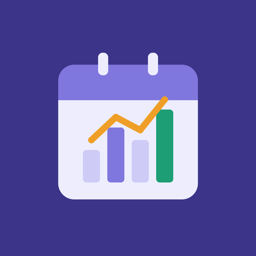
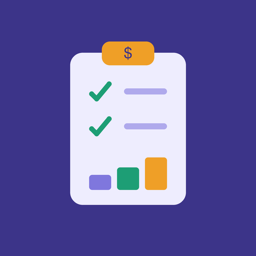
Rebrand site to Monyfest; reinvent copy without tracker/logger

Changed region(s): [[0.2188, 0.1562, 0.7812, 0.8125]]

diff --git a/index.html b/index.html
@@ -2,16 +2,16 @@
 <html lang="en">
 <head>
 <meta charset="UTF-8">
-<title>Spendly Log — private, on-device expense tracker</title>
+<title>Monyfest — your money, made clear</title>
 <meta name="viewport" content="width=device-width, initial-scale=1">
-<meta name="description" content="Spendly Log tracks your expenses entirely on your device — category breakdowns, monthly trends, and smart CSV import. No account, no cloud, no ads.">
+<meta name="description" content="Monyfest turns your spending into a clear picture — categories, trends, and analytics — entirely on your device. No account, no cloud, no ads.">
 <link rel="icon" href="assets/icon.png">
 <link rel="stylesheet" href="styles.css">
 </head>
 <body>
 
 <nav>
-  <a class="brand" href="index.html"><img src="assets/icon.png" alt=""> Spendly Log</a>
+  <a class="brand" href="index.html"><img src="assets/icon.png" alt=""> Monyfest</a>
   <div class="links">
     <a href="support.html">Support</a>
     <a href="privacy.html">Privacy</a>
@@ -19,86 +19,86 @@
 </nav>
 
 <div class="hero">
-  <img class="icon" src="assets/icon.png" alt="Spendly Log app icon">
-  <h1>See where your money goes</h1>
-  <p class="tagline">A simple, private expense tracker that works entirely on your device — no account, no cloud, no ads.</p>
+  <img class="icon" src="assets/icon.png" alt="Monyfest app icon">
+  <h1>Your money, made clear</h1>
+  <p class="tagline">Monyfest turns the numbers you'd rather not think about into a picture you actually understand — and it never leaves your phone.</p>
   <div class="badges">
     <span class="badge">100% on-device</span>
-    <span class="badge">Zero network access</span>
+    <span class="badge">No account</span>
     <span class="badge">iPhone &amp; iPad</span>
   </div>
   <div class="shots">
-    <img src="assets/screenshot-expenses.png" alt="Expenses list screen">
-    <img src="assets/screenshot-import.png" alt="Screenshot and video import screen">
-    <img src="assets/screenshot-categories.png" alt="Category breakdown donut chart screen">
+    <img src="assets/screenshot-expenses.png" alt="Monthly expenses grouped by category">
+    <img src="assets/screenshot-import.png" alt="Bringing in transactions from a screenshot or recording">
+    <img src="assets/screenshot-categories.png" alt="Category breakdown donut chart">
   </div>
 </div>
 
 <div class="section">
-  <h2 class="section-title">Everything you need, nothing you don't</h2>
-  <p class="section-sub">Spendly Log focuses on the essentials — logging expenses, understanding where they go, and tracking trends over time.</p>
+  <h2 class="section-title">The whole picture, not just the numbers</h2>
+  <p class="section-sub">Money is easier to handle when you can see it. Monyfest turns a pile of transactions into something you can read at a glance.</p>
   <div class="features">
     <div class="feature">
       <div class="icon c-violet">＋</div>
-      <h3>Quick add &amp; auto-categorize</h3>
-      <p>Add an expense in seconds — merchant-based heuristics suggest the right category automatically.</p>
+      <h3>Add in seconds</h3>
+      <p>Type a merchant and the category picks itself. One tap and the expense is in — no forms to wrestle with.</p>
     </div>
     <div class="feature">
       <div class="icon c-teal">◐</div>
-      <h3>Category breakdown</h3>
-      <p>A donut chart shows exactly where your money went each month, across 12 built-in categories.</p>
+      <h3>Where it actually goes</h3>
+      <p>A category donut shows how each month really breaks down, with the percentages spelled out beside it.</p>
     </div>
     <div class="feature">
       <div class="icon c-amber">▲</div>
-      <h3>Monthly trends</h3>
-      <p>A 12-month bar chart with month-over-month deltas so you can spot patterns before they add up.</p>
+      <h3>Month on month</h3>
+      <p>A twelve-month view shows whether you're drifting up or reining it in, with the change stated plainly.</p>
     </div>
     <div class="feature">
       <div class="icon c-violet">⇩</div>
-      <h3>Smart CSV import</h3>
-      <p>Auto-detects bank and card export formats — delimiters, date formats, US/EU numbers, debit/credit columns.</p>
+      <h3>Bring in a bank file</h3>
+      <p>Point Monyfest at a CSV from your bank and it works out the columns, dates, and number style on its own.</p>
     </div>
     <div class="feature">
       <div class="icon c-teal">▤</div>
-      <h3>Screenshot import</h3>
-      <p>No CSV export? Screenshot your bank app's transaction list and the app reads it with on-device text recognition — dates, merchants, and amounts, reviewed by you before saving.</p>
+      <h3>Snap a screenshot</h3>
+      <p>No export? Screenshot your bank app's list and Monyfest reads the rows right on your phone. Nothing is uploaded.</p>
     </div>
     <div class="feature">
       <div class="icon c-amber">▶</div>
-      <h3>Video import</h3>
-      <p>Long list? Record your screen while scrolling through it and import the whole recording — frames are read on your device and duplicates removed automatically.</p>
+      <h3>Or record the scroll</h3>
+      <p>Long history? Film your screen while scrolling and Monyfest reads the whole clip, skipping the repeats.</p>
     </div>
     <div class="feature">
       <div class="icon c-violet">✦</div>
-      <h3>Clean merchant names</h3>
-      <p>Cryptic statement descriptors become readable store names — "STORA COOP SUNDBY PARK" is just "Stora Coop".</p>
+      <h3>Names you recognize</h3>
+      <p>Cryptic bank descriptors become the shops you actually visited — "STORA COOP SUNDBY" reads as "Stora Coop".</p>
     </div>
     <div class="feature">
       <div class="icon c-teal">⧉</div>
-      <h3>Duplicate-safe</h3>
-      <p>Re-importing the same file, screenshot, or video never creates duplicates — each row is hashed and checked automatically.</p>
+      <h3>Import twice, safely</h3>
+      <p>Bring in the same file, shot, or clip again and nothing doubles up — every row is fingerprinted first.</p>
     </div>
     <div class="feature">
       <div class="icon c-amber">◫</div>
-      <h3>Analytics</h3>
-      <p>Year-to-date, projections, year-over-year and month-over-month trends, top merchants, and per-category deep dives.</p>
+      <h3>Go deeper</h3>
+      <p>Year-to-date, a projection for the year, year-on-year shifts, your top merchants, and a look inside any category.</p>
     </div>
   </div>
 </div>
 
 <div class="section">
   <h2 class="section-title">Made for iPad too</h2>
-  <p class="section-sub">On iPad, everything lives on one screen — your expenses, category donut, and monthly trend side by side. Tap a month to focus it, tap a category to filter, and dive into full analytics.</p>
+  <p class="section-sub">On iPad it all sits on one screen — your expenses, the category donut, and the monthly picture together. Tap a month to focus it, tap a category to filter, open analytics for the full story.</p>
   <div class="shots">
-    <img src="assets/screenshot-ipad-dashboard.png" alt="iPad dashboard with expense list, category donut, and monthly trend">
-    <img src="assets/screenshot-analytics.png" alt="Analytics page with yearly totals and category mix">
+    <img src="assets/screenshot-ipad-dashboard.png" alt="iPad dashboard with expenses, category donut, and monthly view">
+    <img src="assets/screenshot-analytics.png" alt="Analytics with yearly totals and category mix">
   </div>
 </div>
 
 <div class="section tight">
   <div class="privacy-band">
-    <h2>Private by design</h2>
-    <p>Everything is stored locally on your device using Apple's on-device storage. Spendly Log makes zero network requests — no account, no analytics, no tracking, and nothing is ever uploaded anywhere.</p>
+    <h2>Yours, and only yours</h2>
+    <p>Everything you put into Monyfest stays in Apple's on-device storage. The app has no networking code at all — no account, no cloud, no analytics, no ads. Your spending is nobody's business but yours, and it never leaves your phone.</p>
   </div>
 </div>
 

diff --git a/support.html b/support.html
@@ -2,7 +2,7 @@
 <html lang="en">
 <head>
 <meta charset="UTF-8">
-<title>Support — Spendly Log</title>
+<title>Support — Monyfest</title>
 <meta name="viewport" content="width=device-width, initial-scale=1">
 <link rel="icon" href="assets/icon.png">
 <link rel="stylesheet" href="styles.css">
@@ -10,7 +10,7 @@
 <body>
 
 <nav>
-  <a class="brand" href="index.html"><img src="assets/icon.png" alt=""> Spendly Log</a>
+  <a class="brand" href="index.html"><img src="assets/icon.png" alt=""> Monyfest</a>
   <div class="links">
     <a href="support.html">Support</a>
     <a href="privacy.html">Privacy</a>
@@ -20,53 +20,53 @@
 <div class="page">
   <div class="page-header"><img src="assets/icon.png" alt=""></div>
   <h1>Support</h1>
-  <p class="updated">Spendly Log tracks your expenses entirely on your device — no account, no cloud sync, no network access.</p>
+  <p class="updated">Monyfest makes your spending clear, entirely on your device — no account, no cloud, no network access.</p>
 
-  <div class="callout">Have a question, bug report, or feature request? Email <a href="mailto:[email redacted]">[email redacted]</a> — I read every message myself. If Spendly Log saves you time, you can <a href="https://buymeacoffee.com/maverickmicky">buy me a coffee</a> ☕.</div>
+  <div class="callout">Have a question, a bug, or an idea? Email <a href="mailto:[email redacted]">[email redacted]</a> — I read every message myself. If Monyfest earns its place on your phone, you can <a href="https://buymeacoffee.com/maverickmicky">buy me a coffee</a> ☕.</div>
 
   <h2>Frequently asked questions</h2>
 
-  <p class="faq-q">Where is my data stored?</p>
-  <p class="faq-a">All expenses are stored locally on your device only, using Apple's on-device SwiftData storage. Nothing is uploaded anywhere. If you delete the app, your data is deleted with it — there is currently no backup or export feature beyond CSV import.</p>
+  <p class="faq-q">Where does my data live?</p>
+  <p class="faq-a">Only on your device, in Apple's on-device storage. Nothing is uploaded anywhere. If you delete the app your data goes with it, so keep an export if you want a copy.</p>
 
-  <p class="faq-q">Does the app work without internet?</p>
-  <p class="faq-a">Yes — completely. Spendly Log has no networking code at all, so every feature (including screenshot and video import) works in airplane mode. Try it: turn on airplane mode and use the app; nothing changes.</p>
+  <p class="faq-q">Does it work without internet?</p>
+  <p class="faq-a">Completely. Monyfest has no networking code at all, so every feature — including reading screenshots and recordings — works in airplane mode. Try it: switch airplane mode on and nothing changes.</p>
 
-  <p class="faq-q">How can I verify nothing is uploaded?</p>
-  <p class="faq-a">Three ways. First, the App Store listing shows Apple's privacy label as "Data Not Collected" — that declaration is part of App Review. Second, iOS itself keeps the receipts: enable <em>Settings → Privacy &amp; Security → App Privacy Report</em>, use Spendly Log for a while, and check the Network Activity section — Spendly Log will show no network activity, ever. Third, everything works in airplane mode, which would be impossible if your data needed a server.</p>
+  <p class="faq-q">How can I be sure nothing is sent anywhere?</p>
+  <p class="faq-a">Three ways. The App Store privacy label reads "Data Not Collected", which is checked during review. iOS keeps its own receipts — turn on <em>Settings → Privacy &amp; Security → App Privacy Report</em>, use Monyfest, and its network section stays blank. And it all works in airplane mode, which couldn't happen if your data needed a server.</p>
 
-  <p class="faq-q">How does screenshot import work?</p>
-  <p class="faq-a">Take screenshots of the transaction list in your bank app, then in Spendly Log tap Import → Scan Screenshot and choose them (or copy a screenshot and tap Paste). Text recognition runs on your phone using Apple's Vision framework — the images are never uploaded. Every detected transaction appears in a review screen where you can fix categories or exclude rows before anything is saved.</p>
+  <p class="faq-q">How does reading a screenshot work?</p>
+  <p class="faq-a">Screenshot the transaction list in your bank app, then in Monyfest tap Import → Scan Screenshot and pick it (or copy the screenshot and tap Paste). The text is read on your phone with Apple's Vision framework — the image is never uploaded. Every row lands in a review screen where you can fix categories or leave some out before saving.</p>
 
-  <p class="faq-q">How does video import work?</p>
-  <p class="faq-a">If the list is long, record your screen (Control Center → screen recording) while scrolling through it, then pick the video in the same import screen. Scroll slowly and steadily — fast flicks blur the text. Overlapping frames are de-duplicated automatically.</p>
+  <p class="faq-q">How does reading a recording work?</p>
+  <p class="faq-a">For a long history, record your screen (Control Center → screen recording) while scrolling slowly, then pick the video in the same import screen. Scroll steadily — fast flicks blur the text — and Monyfest skips the frames that overlap.</p>
 
-  <p class="faq-q">What does the orange dot on some imported expenses mean?</p>
-  <p class="faq-a">It marks a transaction whose date had to be guessed — usually because the screenshot cropped the list between a date heading and its rows. Open the expense, check or fix the date, and save; the dot disappears.</p>
+  <p class="faq-q">What's the orange dot on some expenses?</p>
+  <p class="faq-a">It flags an imported expense whose date had to be guessed — usually because the screenshot cut off between a date heading and its rows. Open the expense, confirm or fix the date, and save; the dot goes away.</p>
 
-  <p class="faq-q">How do I delete an expense?</p>
-  <p class="faq-a">Swipe left on it in the list, long-press it for a menu, or open it and tap Delete Expense.</p>
+  <p class="faq-q">How do I remove an expense?</p>
+  <p class="faq-a">Swipe left on it, long-press it for a menu, or open it and tap Delete.</p>
 
-  <p class="faq-q">What CSV formats can I import?</p>
-  <p class="faq-a">The app auto-detects common bank and card export formats: comma, semicolon, or tab-delimited files; quoted fields; header detection; a single signed-amount column or split debit/credit columns; US (1,234.56) and EU (1 234,56) number formats; and several date formats, auto-disambiguated. If your bank's export doesn't import correctly, email a sample (redact the amounts if you like) and it can likely be supported.</p>
+  <p class="faq-q">Which CSV files can it read?</p>
+  <p class="faq-a">Most bank and card exports: comma, semicolon, or tab separated; quoted fields; a single signed-amount column or split debit/credit columns; US (1,234.56) and EU (1 234,56) numbers; and several date formats, sorted out automatically. If yours doesn't come through cleanly, email a sample (blank out the amounts if you like) and it can usually be supported.</p>
 
-  <p class="faq-q">Will importing the same file twice create duplicates?</p>
-  <p class="faq-a">No — every imported row is hashed, so re-importing a file you've already imported automatically skips rows that were previously added.</p>
+  <p class="faq-q">Will importing the same file twice double things up?</p>
+  <p class="faq-a">No. Every row is fingerprinted, so bringing in a file you've already imported quietly skips the rows that are already there.</p>
 
-  <p class="faq-q">Can I edit the category CSV import assigns to a row?</p>
-  <p class="faq-a">Yes. The import preview screen lets you review every row before committing — toggle rows to exclude them, or tap a row's category to change it.</p>
+  <p class="faq-q">Can I change the category it picked?</p>
+  <p class="faq-a">Yes. The import review screen lets you go through every row before it's saved — leave some out, or tap a category to change it.</p>
 
-  <p class="faq-q">Does it support multiple currencies?</p>
-  <p class="faq-a">Amounts display using your device's locale currency. Multi-currency conversion isn't supported in this version.</p>
+  <p class="faq-q">Does it handle more than one currency?</p>
+  <p class="faq-a">Amounts show in your device's currency. Converting between currencies isn't part of this version.</p>
 
   <p class="faq-q">Does it sync between my iPhone and iPad?</p>
-  <p class="faq-a">Not currently — each device keeps its own separate local data, since there's no cloud account to sync through.</p>
+  <p class="faq-a">Not right now — with no cloud account to sync through, each device keeps its own copy.</p>
 
-  <p class="faq-q">Can I export or back up my data?</p>
-  <p class="faq-a">Yes — open the Import &amp; Export menu and choose Export. You can share your expenses as a CSV or Excel spreadsheet, or a PDF statement grouped by month, for any period. Files are generated on your device and go only where you send them (Files, AirDrop, email, …). The CSV re-imports into Spendly Log without creating duplicates, so it doubles as a backup.</p>
+  <p class="faq-q">Can I get my data out?</p>
+  <p class="faq-a">Yes — open Import &amp; Export and choose Export. Send your expenses as a CSV or Excel spreadsheet, or a PDF statement grouped by month, for any period. Files are made on your device and go only where you send them. The CSV comes back into Monyfest without doubling up, so it also works as a backup.</p>
 
   <h2>Privacy</h2>
-  <p>Spendly Log collects nothing — see the full <a href="privacy.html">privacy policy</a> for details.</p>
+  <p>Monyfest collects nothing — the full <a href="privacy.html">privacy policy</a> has the details.</p>
 </div>
 
 <footer>

diff --git a/privacy.html b/privacy.html
@@ -2,7 +2,7 @@
 <html lang="en">
 <head>
 <meta charset="UTF-8">
-<title>Privacy Policy — Spendly Log</title>
+<title>Privacy Policy — Monyfest</title>
 <meta name="viewport" content="width=device-width, initial-scale=1">
 <link rel="icon" href="assets/icon.png">
 <link rel="stylesheet" href="styles.css">
@@ -10,7 +10,7 @@
 <body>
 
 <nav>
-  <a class="brand" href="index.html"><img src="assets/icon.png" alt=""> Spendly Log</a>
+  <a class="brand" href="index.html"><img src="assets/icon.png" alt=""> Monyfest</a>
   <div class="links">
     <a href="support.html">Support</a>
     <a href="privacy.html">Privacy</a>
@@ -22,31 +22,31 @@
   <h1>Privacy Policy</h1>
   <p class="updated">Last updated: July 2026</p>
 
-  <div class="callout">Spendly Log does not collect, transmit, or share any of your data — of any kind, ever.</div>
+  <div class="callout">Monyfest does not collect, transmit, or share any of your data — of any kind, ever.</div>
 
   <h2>What the app does</h2>
-  <p>Spendly Log is an expense-tracking app that stores everything you enter — expenses, categories, notes, and imported CSV data — locally on your device using Apple's on-device SwiftData storage. The app makes no network requests of any kind.</p>
+  <p>Monyfest helps you make sense of your spending. Everything you put in — expenses, categories, notes, and anything brought in from a CSV, screenshot, or recording — is kept on your device in Apple's on-device storage. The app makes no network requests of any kind.</p>
 
   <h2>Data collection</h2>
-  <p>We do not collect any data. There is no analytics, no crash reporting, no advertising SDK, and no account or sign-in of any kind. Nothing you enter into the app ever leaves your device.</p>
+  <p>None. There is no analytics, no crash reporting, no advertising, and no account or sign-in. Nothing you enter ever leaves your phone.</p>
 
-  <h2>CSV, screenshot, and video import</h2>
-  <p>When you import a CSV file, a screenshot, or a screen recording of your bank app, it is read and parsed entirely on your device. Text recognition uses Apple's on-device Vision framework — no image, video, or text ever leaves your phone.</p>
+  <h2>Reading files, screenshots, and recordings</h2>
+  <p>When you bring in a CSV file, a screenshot, or a screen recording of your bank app, it is read entirely on your device. Text recognition uses Apple's on-device Vision framework — no image, video, or text is ever uploaded.</p>
 
-  <h2>Verify it yourself</h2>
-  <p>You don't have to take our word for it. Enable <em>Settings → Privacy &amp; Security → App Privacy Report</em> on your device and use the app — iOS records every network contact an app makes, and Spendly Log's is empty. The app is also fully functional in airplane mode, and its App Store privacy label reads "Data Not Collected".</p>
+  <h2>See for yourself</h2>
+  <p>You don't have to take our word for it. Turn on <em>Settings → Privacy &amp; Security → App Privacy Report</em> and use the app — iOS records every network contact an app makes, and Monyfest's stays empty. It's also fully usable in airplane mode, and its App Store privacy label reads "Data Not Collected".</p>
 
   <h2>Third parties</h2>
-  <p>Spendly Log does not integrate with any third-party services, SDKs, or APIs.</p>
+  <p>Monyfest uses no third-party services, SDKs, or APIs.</p>
 
   <h2>Children's privacy</h2>
-  <p>Since the app collects no data from anyone, this applies equally to users of all ages.</p>
+  <p>Because the app collects nothing from anyone, this holds equally for users of every age.</p>
 
   <h2>Changes to this policy</h2>
-  <p>If this policy ever changes (for example, if a future version adds an optional cloud sync feature), this page will be updated and the change will be reflected in the app's release notes.</p>
+  <p>If this ever changes — say a future version adds an optional cloud sync you can turn on — this page will be updated and the change noted in the app's release notes.</p>
 
   <h2>Contact</h2>
-  <p>Questions about this policy can be sent to <a href="mailto:[email redacted]">[email redacted]</a>, or see the <a href="support.html">support page</a>.</p>
+  <p>Questions about this policy can go to <a href="mailto:[email redacted]">[email redacted]</a>, or see the <a href="support.html">support page</a>.</p>
 </div>
 
 <footer>